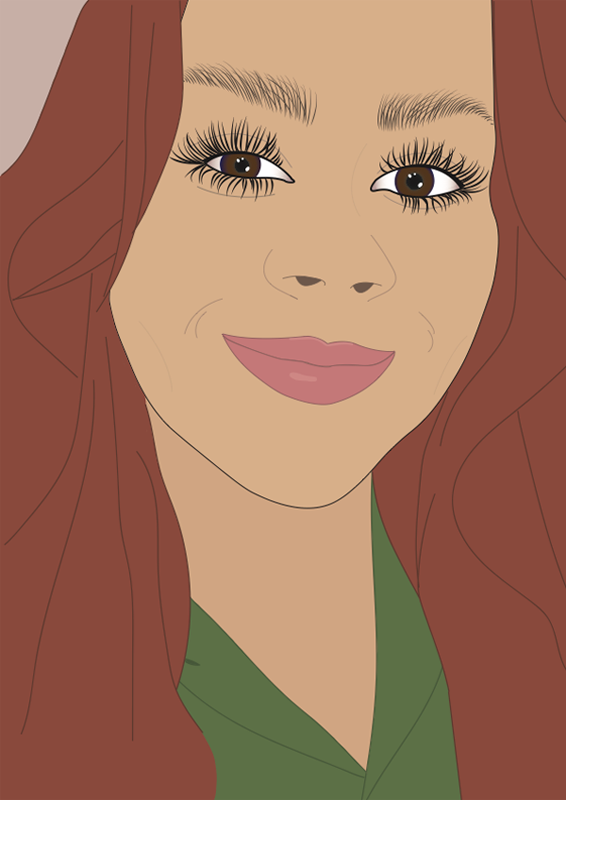
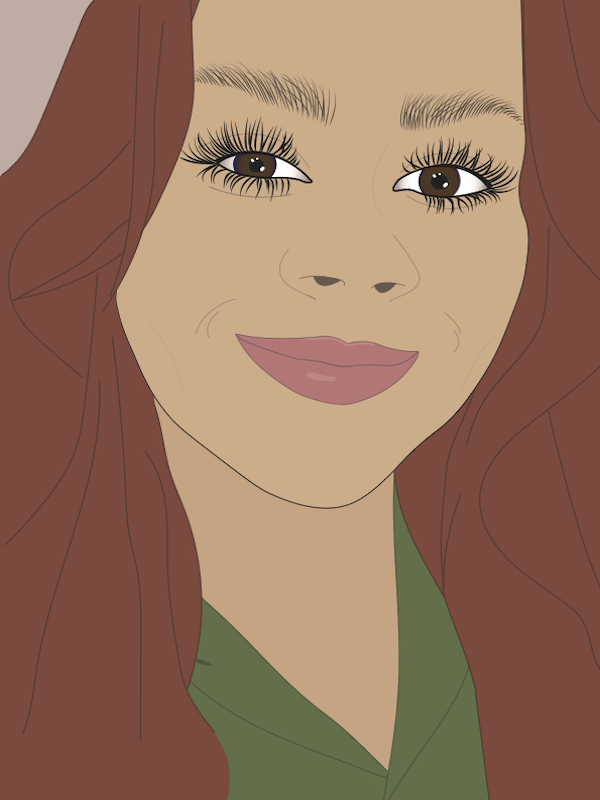
portfolio2
Justeret størrelse på billeder, sat hyperlinks ind

diff --git a/kontakt_page.html b/kontakt_page.html
@@ -4,7 +4,7 @@
 <head>
 <meta charset="UTF-8">
 <title>Portfilio</title>
-<link rel="stylesheet" href="kontakt_page.css">
+<link rel="stylesheet" href="om_mig_page.css">
 </head>
 
 <body>
@@ -19,34 +19,26 @@
 <div class="layout">
   <div class="top">
     <div class="flex-container">
-      <div>Om mig</div>
-      <div>Portfilio</div>
-      <div>Kontakt</div>
+      <div><a href="om_mig_page.html">Om mig</a></div>
+      <div><a href="portfolio_page.html">Portfilio</a></div>
+      <div><a href="kontakt_page.html">Kontakt</a></div>
     </div>
   </div>
 
-  <div class="boks">
-    <div class="mid">
-      <div class="overskrift"><h2>Portfolio</h2></div>
-      <div class="underoverskrift"><h3>Et indblik i mine værker</h3></div>
-    </div>
-
-    <div class="raekke">
-      <img src="selfportrait.png" alt="hund">
-      <img src="movingart.gif" alt="hund">
-    </div>
-
-    <div class="raekke">
-      <img src="giraf.png" alt="hund">
-      <img src="sostrehuset.png" alt="hund">
-    </div>
+  <div class="mid">
+    <div class="overskrift"><h2>Kontakt</h2></div>
+    <div class="bodytekst">
+      <p>Hej!
+        Jeg svarer med glæde på alle henvendelser via mail og telefon.
+      </p>
+      <p>Email: johanna.langgaard@gmail.com</p>
+      <p>Tlf: +45 81980228</p>
     </div>
 
 <div class="kontaktportrait">
-  <img id="mig"
+  <img id="billedeafmig"
   src="kontakt.png" alt="portrait" style="width:40%;">
 </div>
-
 
   </div>
 

diff --git a/kontakt_page.css b/kontakt_page.css
@@ -83,13 +83,6 @@ body{
 
 /* Menu bar slutter her */
 /* Om mig indlæg starer her */
-.boks{
-  margin-left: 50px;
-  margin-right: 50px;
-  margin-top: 20px;
-  margin-bottom: 20px;
-  text-align: center;
-}
 
 .mid{
   background-color: #E5E3E0;
@@ -97,7 +90,6 @@ body{
   font-family: 'Osaka-Sans Serif', sans-serif;
   font-weight: lighter;
   color: #695B51;
-  text-align: center;
 }
 
   .overskrift{
@@ -105,20 +97,7 @@ body{
     font-size: 1.8em;
     font-weight: bold;
     color: #354827;
-  }
-
-  .underoverskrift{
-    font-family: Didot,Didot LT STD,Hoefler Text,Garamond,Times New Roman,serif;
-    font-size: 1.5em;
-    font-weight: normal;
-    color: #354827;
-  }
-
-  .raekke{
-    display: flex;
-    flex-direction: row;
-    margin: 70px;
-    justify-content: space-around;
+    text-align: center;
   }
 
   .bodytekst{
@@ -126,9 +105,9 @@ body{
     margin: 2em;
   }
 
-  #mig {
-          float: right;
-        }
+  #billedeafmig{
+    float: left;
+  }
 
 /* Om mig indlæg slutter her */
 /* Footer starter her */

diff --git a/portfolio_page.css b/portfolio_page.css
@@ -81,8 +81,20 @@ body{
   color: #E5E3E0;
 }
 
+.a{
+  color: yellow;
+}
+
 /* Menu bar slutter her */
 /* Om mig indlæg starer her */
+.boks{
+  margin-left: 50px;
+  margin-right: 50px;
+  margin-top: 20px;
+  margin-bottom: 20px;
+  text-align: center;
+}
+
 .mid{
   background-color: #E5E3E0;
   font-size: 20px;
@@ -106,15 +118,18 @@ body{
     color: #354827;
   }
 
-  .flex-billeder{
-  display: flex;
-  flex-direction: column;
-}
+  .raekke{
+    display: flex;
+    flex-direction: row;
+    margin: 70px;
+    justify-content: space-around;
+  }
+
 
 /* Responsive layout - makes a one column layout instead of a two-column layout */
 @media (max-width: 800px) {
-  .flex-container {
-    flex-direction: row;
+  .raekke{
+    flex-direction: column;
   }
 }
 

diff --git a/portfolio_page.html b/portfolio_page.html
@@ -19,9 +19,9 @@
 <div class="layout">
   <div class="top">
     <div class="flex-container">
-      <div>Om mig</div>
-      <div>Portfilio</div>
-      <div>Kontakt</div>
+      <div><a href="om_mig_page.html">Om mig</a></div>
+      <div><a href="portfolio_page.html">Portfilio</a></div>
+      <div><a href="kontakt_page.html">Kontakt</a></div>
     </div>
   </div>
 
@@ -32,7 +32,7 @@
     </div>
 
     <div class="raekke">
-      <img src="selfportrait.pdf" alt="illustrator">
+      <img src="selfportrait.png" alt="illustrator">
       <img src="movingart.gif" alt="movingart">
     </div>
 

diff --git a/om_mig_page.html b/om_mig_page.html
@@ -19,9 +19,9 @@
 <div class="layout">
   <div class="top">
     <div class="flex-container">
-      <div>Om mig</div>
-      <div>Portfilio</div>
-      <div>Kontakt</div>
+      <div><a href="om_mig_page.html">Om mig</a></div>
+      <div><a href="portfolio_page.html">Portfilio</a></div>
+      <div><a href="kontakt_page.html">Kontakt</a></div>
     </div>
   </div>
 
